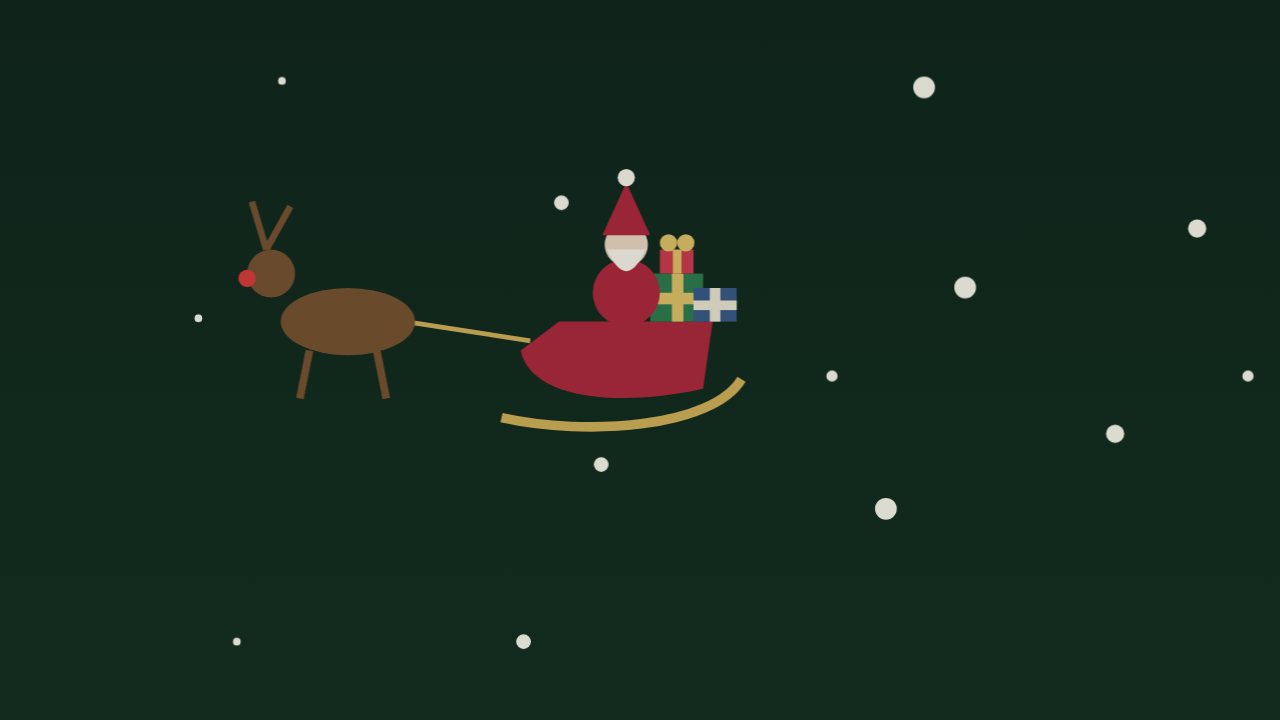
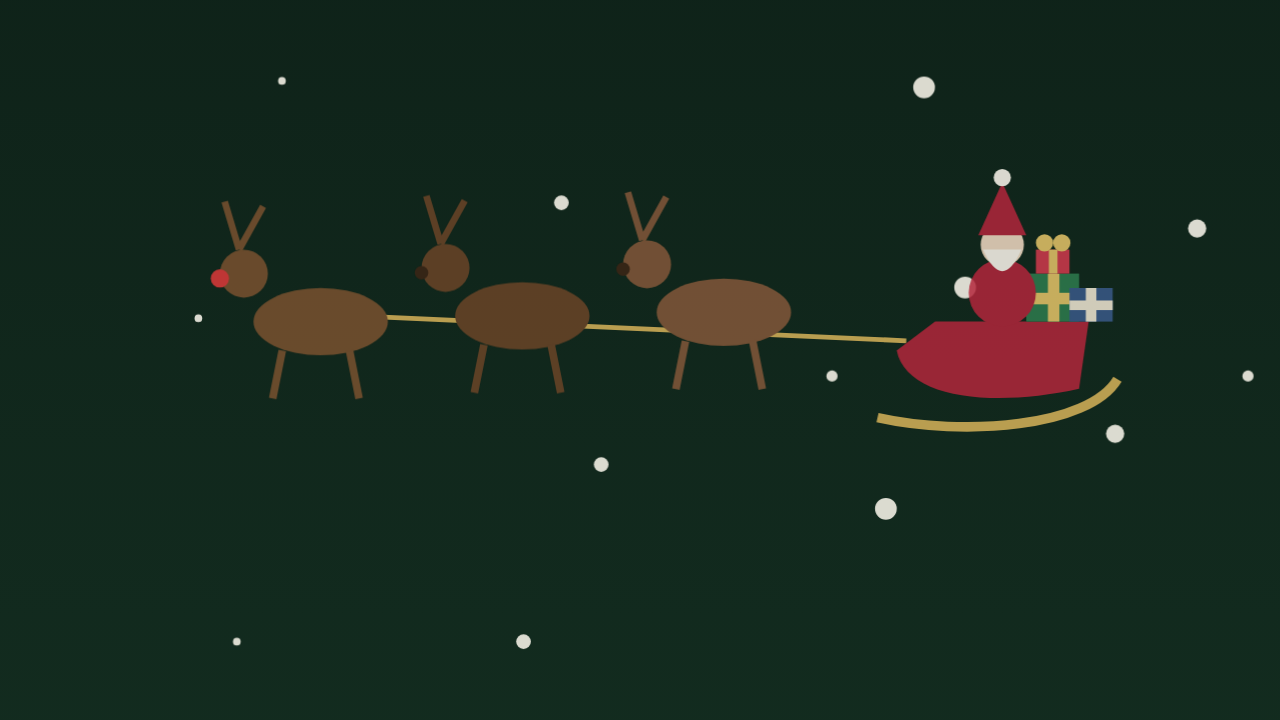
christmas-theme 0.3.0: a team of three reindeer, led by Rudolph, pulls the sleigh
Claude-Session: https://claude.ai/code/session_019US2gsjfkmf3Eo2ufavub8

Changed region(s): [[0.1562, 0.2139, 0.875, 0.6111], [0.3438, 0.5194, 0.375, 0.55]]

diff --git a/plugins/christmas-theme/hooks/register.tsx b/plugins/christmas-theme/hooks/register.tsx
@@ -45,18 +45,35 @@ const FLAKES = Array.from({ length: 48 }, (_, i) => {
   return `<circle class="f" cx="${x}" cy="-10" r="${r}" style="--d:${drift}px;--y:${rest}px;animation-duration:${duration}s;animation-delay:${delay}s"/>`
 }).join('')
 
-// Santa, his sleigh and one reindeer, drawn small around (0, 0). The reindeer is on the left and faces left, so
+// Santa, his sleigh and a team of three reindeer, drawn small around (0, 0). The reindeer are on the left and face left, so
 // the flight goes from right to left and the reindeer pulls the sleigh. They rest at the spot given by the outer
 // transform, and the slow flight across the sky only moves them sideways. The sky band a wide window shows is
 // about y 290 to 510, so they fly through the middle of it. The animation starts partway across (the negative
 // delay), so they are on screen when a session opens.
+// One reindeer, drawn facing left around (-50, -8) and shifted by `dx`. The first one leads, with the red nose.
+// It bobs a little as it flies, each at its own moment. The shift is on the outer group, the bob on the inner one,
+// since a CSS animation would replace a transform attribute.
+const reindeer = (dx: number, isLead: boolean, index: number): string => {
+  const coat = ['#7a5230', '#6b4528', '#84583a'][index % 3]
+  const nose = isLead ? '#e03a3a' : '#3d2616'
+
+  return [
+    `<g transform="translate(${dx} 0)"><g class="bob" style="animation-delay:${-index * 0.5}s">`,
+    `<ellipse cx="-50" cy="-8" rx="14" ry="7" fill="${coat}"/>`,
+    `<circle cx="-66" cy="-18" r="5" fill="${coat}"/>`,
+    `<circle cx="-71" cy="-17" r="${isLead ? 1.9 : 1.4}" fill="${nose}"/>`,
+    `<path d="M-67 -23 L-70 -33 M-67 -23 L-62 -32" stroke="${coat}" stroke-width="1.4" fill="none"/>`,
+    `<path d="M-58 -2 L-60 8 M-44 -2 L-42 8" stroke="${coat}" stroke-width="1.6" fill="none"/>`,
+    '</g></g>',
+  ].join('')
+}
+
 const SANTA = [
-  '<path d="M-38 -8 L-12 -4" stroke="#d9b45a" stroke-width="1" fill="none"/>',
-  '<ellipse cx="-50" cy="-8" rx="14" ry="7" fill="#7a5230"/>',
-  '<circle cx="-66" cy="-18" r="5" fill="#7a5230"/>',
-  '<circle cx="-71" cy="-17" r="1.8" fill="#e03a3a"/>',
-  '<path d="M-67 -23 L-70 -33 M-67 -23 L-62 -32" stroke="#7a5230" stroke-width="1.4" fill="none"/>',
-  '<path d="M-58 -2 L-60 8 M-44 -2 L-42 8" stroke="#7a5230" stroke-width="1.6" fill="none"/>',
+  // The harness: one line from the lead reindeer back to the sleigh, behind the team.
+  '<path d="M-122 -9 L-12 -4" stroke="#d9b45a" stroke-width="1" fill="none"/>',
+  reindeer(-84, true, 0),
+  reindeer(-42, false, 1),
+  reindeer(0, false, 2),
   '<path d="M-14 -2 C-12 8 6 10 24 6 L26 -8 L-6 -8 Z" fill="#b3263b"/>',
   '<path d="M-18 12 C0 16 26 14 32 4" stroke="#d9b45a" stroke-width="2" fill="none"/>',
   // Three wrapped presents with ribbons and bows, stacked at the back of the sleigh.
@@ -87,12 +104,14 @@ const SCENE = [
   '@keyframes fall{from{transform:translate(0,0)}to{transform:translate(var(--d),830px)}}',
   '.sl{animation:fly 70s linear -34s infinite}',
   // Asked to reduce motion, the flakes rest at set heights and Santa rests where he is drawn.
-  '@media (prefers-reduced-motion:reduce){.f{animation:none;transform:translate(0,var(--y))}.sl{animation:none}}',
-  '@keyframes fly{from{transform:translate(215px,0)}to{transform:translate(-250px,0)}}',
+  '@media (prefers-reduced-motion:reduce){.f{animation:none;transform:translate(0,var(--y))}.sl{animation:none}.bob{animation:none}}',
+  '@keyframes fly{from{transform:translate(260px,0)}to{transform:translate(-205px,0)}}',
+  '.bob{animation:bob 1.8s ease-in-out infinite}',
+  '@keyframes bob{0%,100%{transform:translate(0,0)}50%{transform:translate(0,-2px)}}',
   '</style>',
   '<rect width="400" height="800" fill="url(#sky)"/>',
   FLAKES,
-  `<g transform="translate(200 400) scale(1.5)" opacity=".85"><g class="sl">${SANTA}</g></g>`,
+  `<g transform="translate(250 400) scale(1.5)" opacity=".85"><g class="sl">${SANTA}</g></g>`,
   '</svg>',
 ].join('')
 

diff --git a/README.es.md b/README.es.md
@@ -43,7 +43,7 @@ Mods bonitas para Claude Code: cambian cómo se ve y qué muestra. Un aspecto na
 
 | Mod | Qué hace |
 |---|---|
-| `christmas-theme` | Verde pino profundo con texto crema cálido, acentos granate y dorado, una nevada lenta, y Santa con su trineo lleno de regalos envueltos y un reno cruzando el cielo una vez cada 70 segundos. Oscuro. |
+| `christmas-theme` | Verde pino profundo con texto crema cálido, acentos granate y dorado, una nevada lenta, y Santa con su trineo lleno de regalos envueltos, tirado por un tiro de tres renos con Rudolph delante, cruzando el cielo una vez cada 70 segundos. Oscuro. |
 | `christmas-town-theme` | Otro aspecto navideño, con un pueblo: una noche azul medianoche con casas con tejados nevados, chimeneas de ladrillo y sus ventanas encendidas, una iglesia con campanario, pinos con luces de colores, una luna, humo de chimeneas que se eleva despacio y una nevada lenta. Oscuro. Instálalo en lugar de `christmas-theme`, no a la vez. |
 | `christmas-market-theme` | Un mercadillo de Navidad de noche: tres puestos de madera (rojo, mostaza y verde) con tejados nevados y toldos a rayas, guirnaldas de luces de colores entre ellos, un abeto alto iluminado detrás del central, dos mesas altas con una vela y una taza humeante, y seis personas con abrigos de invierno comiendo y bebiendo (un salchichón en pan, un pretzel, un crepe, tazas de algo caliente). Los brazos suben despacio hacia la boca y sale vapor de las tazas. Oscuro. Instálalo en lugar de los otros temas navideños, no a la vez. |
 | `christmas-countdown` | Muestra "🎄 N days to Christmas" en la línea de estado, y "🎄 Merry Christmas!" el mismo día. Sigue siendo correcto si dejas una sesión abierta pasada la medianoche. |

diff --git a/README.md b/README.md
@@ -43,7 +43,7 @@ Pretty mods for Claude Code: changes to how it looks and what it shows. A Christ
 
 | Mod | What it does |
 |---|---|
-| `christmas-theme` | Deep pine green with warm cream text, cranberry accents and gold, a slow snowfall, and Santa with his sleigh full of wrapped presents and a reindeer crossing the sky once every 70 seconds. Dark. |
+| `christmas-theme` | Deep pine green with warm cream text, cranberry accents and gold, a slow snowfall, and Santa with his sleigh full of wrapped presents, pulled by a team of three reindeer led by Rudolph, crossing the sky once every 70 seconds. Dark. |
 | `christmas-town-theme` | Another Christmas look, with a town: a midnight-blue night with snow-roofed houses with brick chimneys and their lit windows, a church with a steeple, pine trees with coloured lights, a moon, drifting chimney smoke and slow snowfall. Dark. Install it instead of `christmas-theme`, not with it. |
 | `christmas-market-theme` | A Christmas market at night: three wooden stalls (red, mustard and green) with snowy roofs and striped awnings, strings of coloured lights between them, a tall lit tree behind the middle one, two standing tables with a candle and a steaming mug, and six people in winter coats eating and drinking (a sausage in a bun, a pretzel, a crepe, mugs of something hot). Their arms lift slowly to their mouths and steam rises from the mugs. Dark. Install it instead of the other Christmas themes, not with them. |
 | `christmas-countdown` | Shows "🎄 N days to Christmas" in the status line, and "🎄 Merry Christmas!" on the day. It stays correct if a session is left open past midnight. |
